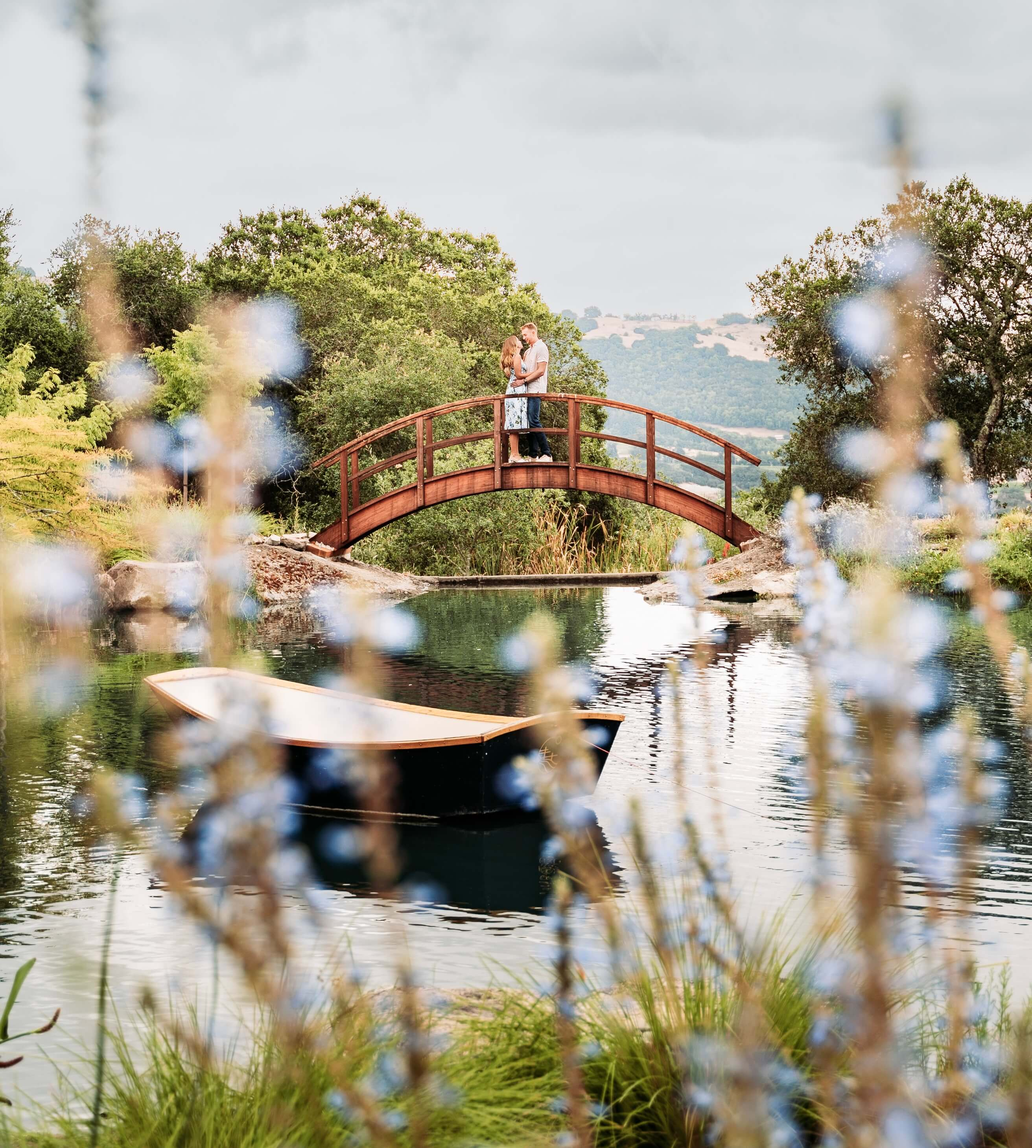
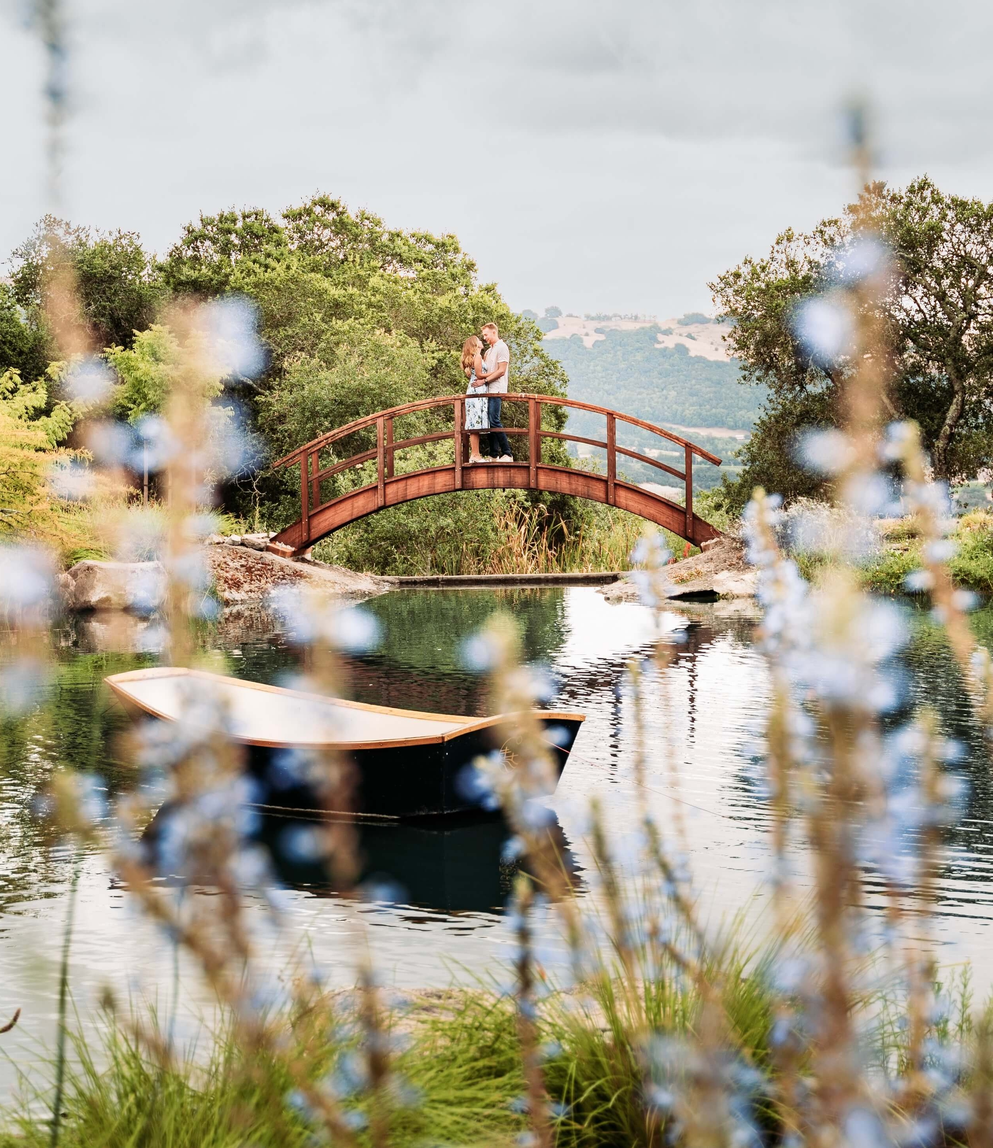
fixed url alignment and header image

diff --git a/index.html b/index.html
@@ -5,7 +5,6 @@
     <meta name="viewport" content="width=device-width, initial-scale=1.0">
     <meta http-equiv="X-UA-Compatible" content="ie=edge">
     <title>Isabel and Dillon's Wedding!</title>
-    <link href="https://fonts.googleapis.com/css2?family=Roboto:wght@300;400;700&display=swap" rel="stylesheet">
     <link rel="stylesheet" href="https://use.typekit.net/xep3eua.css">
     <link rel="stylesheet" href="style.css">
 </head>
@@ -28,7 +27,7 @@
 <script src="https://unpkg.com/lenis@1.1.14/dist/lenis.min.js"></script>
 <script>
     const lenis = new Lenis({
-        duration: 0.4,        // Adjust for speed of the scroll (1.2s duration per scroll distance)
+        duration: 0.7,        // Adjust for speed of the scroll (1.2s duration per scroll distance)
         easing: (t) => t * (2 - t), // Smooth easing function
         smooth: true,         // Enables smooth scrolling
         direction: 'vertical' // Vertical scrolling
@@ -74,7 +73,7 @@
             <img src="jacuzzi.png" alt="Jacuzzi" class="event-image"  id="jacuzzi">
             <h1>Friday, June 6</h1>
             <h2>Wedding Ceremony & Reception</h2>
-            <p class="event-details">Jacuzzi Vineyards<br>Festive Black<br>6PM to Midnight</p>
+            <p class="event-details">Jacuzzi Vineyards<br>Festive Black Tie<br>6PM to Midnight</p>
         </div>
 
         <img src="connector-line.png" alt="Connector" class="connector">
@@ -92,7 +91,7 @@
         <div class="accommodations-section">
             <img src="beebs-min.png" alt="The Beebs, overlooking a beautiful vineyard" class="accommodations-image">
             <div class="accommodations-text">
-                <h2>We would be thrilled to have you join us! To ensure the best rates, we recommend booking accommodations early.</h2>
+                <h2>We would be thrilled to have you join us! To ensure the best rates, we recommend booking accommodations early.</h2><br>
                 <p>Below are our hotel recommendations, though Airbnb or Vrbo are great alternatives. For convenience, we recommend staying north of Jacuzzi Vineyards to avoid unpredictable traffic.</p>
                 <p>A shuttle will be available on the wedding day to transport guests between Sonoma Plaza and Jacuzzi Vineyards, both before and after the night.</p>
                 <p>There is ample parking at the venue, and cars can be left overnight until 10 AM the following day.
@@ -105,7 +104,7 @@
         <div class="hotel" id="figs">
             <h3>The Lodge at Sonoma Resort</h3>
             <p>1325 Broadway, Sonoma, CA 95476</p>
-            <p><a href="https://www.marriott.com" target="_blank">marriott.com</a></p>
+            <p><a href="https://www.marriott.com/en-us/hotels/sfoas-the-lodge-at-sonoma-resort-autograph-collection/overview/" target="_blank">marriott.com</a></p>
         </div>
         <div class="hotel" id="birch">
             <h3>Sonoma Valley Inn</h3>

diff --git a/style.css b/style.css
@@ -64,6 +64,7 @@ html, body {
     background-image: url('vines.png');
     background-color: #444C27;
     background-position: center;
+    background-size: cover;
     padding: 60px 0 60px 0;
     width: 100%;
     margin: 0;
@@ -123,7 +124,6 @@ html, body {
 .accommodations-image {
     object-fit: cover;
 }
-
 .accommodations-text {
     background-image: url('vines2.png');
     background-size: cover;
@@ -301,9 +301,24 @@ img.button {
 /* Responsive styling (Mobile) */
 @media (max-width: 768px) {
     .header-image-container {
-        background-size: 180%;
+        background-size: 200%;
         background-position: center top; /* Focus on the top of the image */
-        height: 1100px; /* Reduce height to fit smaller screens */
+        height: 600px; /* Reduce height to fit smaller screens */
+    }
+
+    .hotel {
+        min-width: 210px;
+        margin: 30px;
+        line-height: 1.5em;
+    }
+
+    .hotel p a {
+        display: inline-block; /* Centers the link text inside its block */
+        text-decoration: underline; /* Keeps the underline for links */
+        color: inherit; /* Match the text color to the parent */
+        text-align: center; /* Center-align the text inside the link */
+        white-space: nowrap; /* Prevents text from breaking into multiple lines */
+        max-width: 100%; /* Ensures the text does not overflow outside the container */
     }
 
     .accommodations-section {
@@ -331,6 +346,9 @@ img.button {
         max-width: 100%;
         font-weight: 200;
     }
+    .accommodations-text h2 {
+        font-size: 2rem;
+    }
     .text-overlay {
         flex-direction: column;
         align-items: left;
@@ -346,11 +364,8 @@ img.button {
     }
 
     .overjoyed {
-        font-size: 1.5rem;
-    }
-
-    .header-image-container {
-        height: 50vh;
+        padding: 20px 0;
+        font-size: 1.4rem;
     }
 
     .details {
